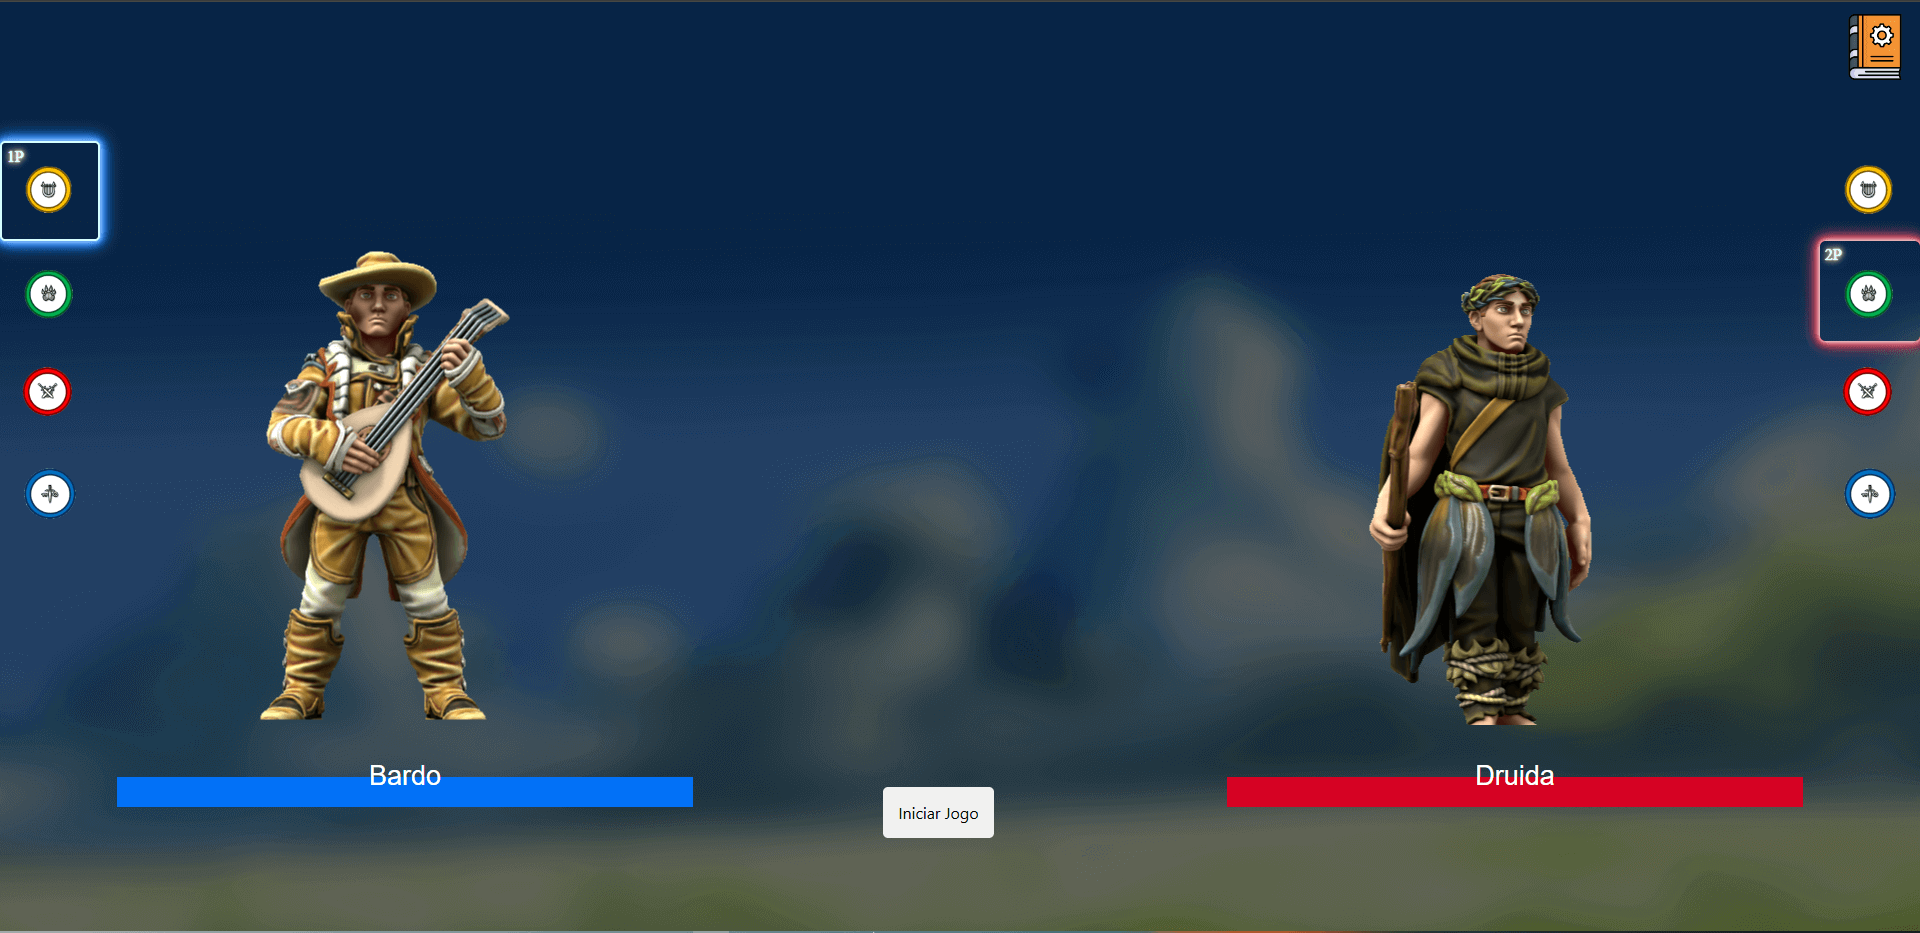
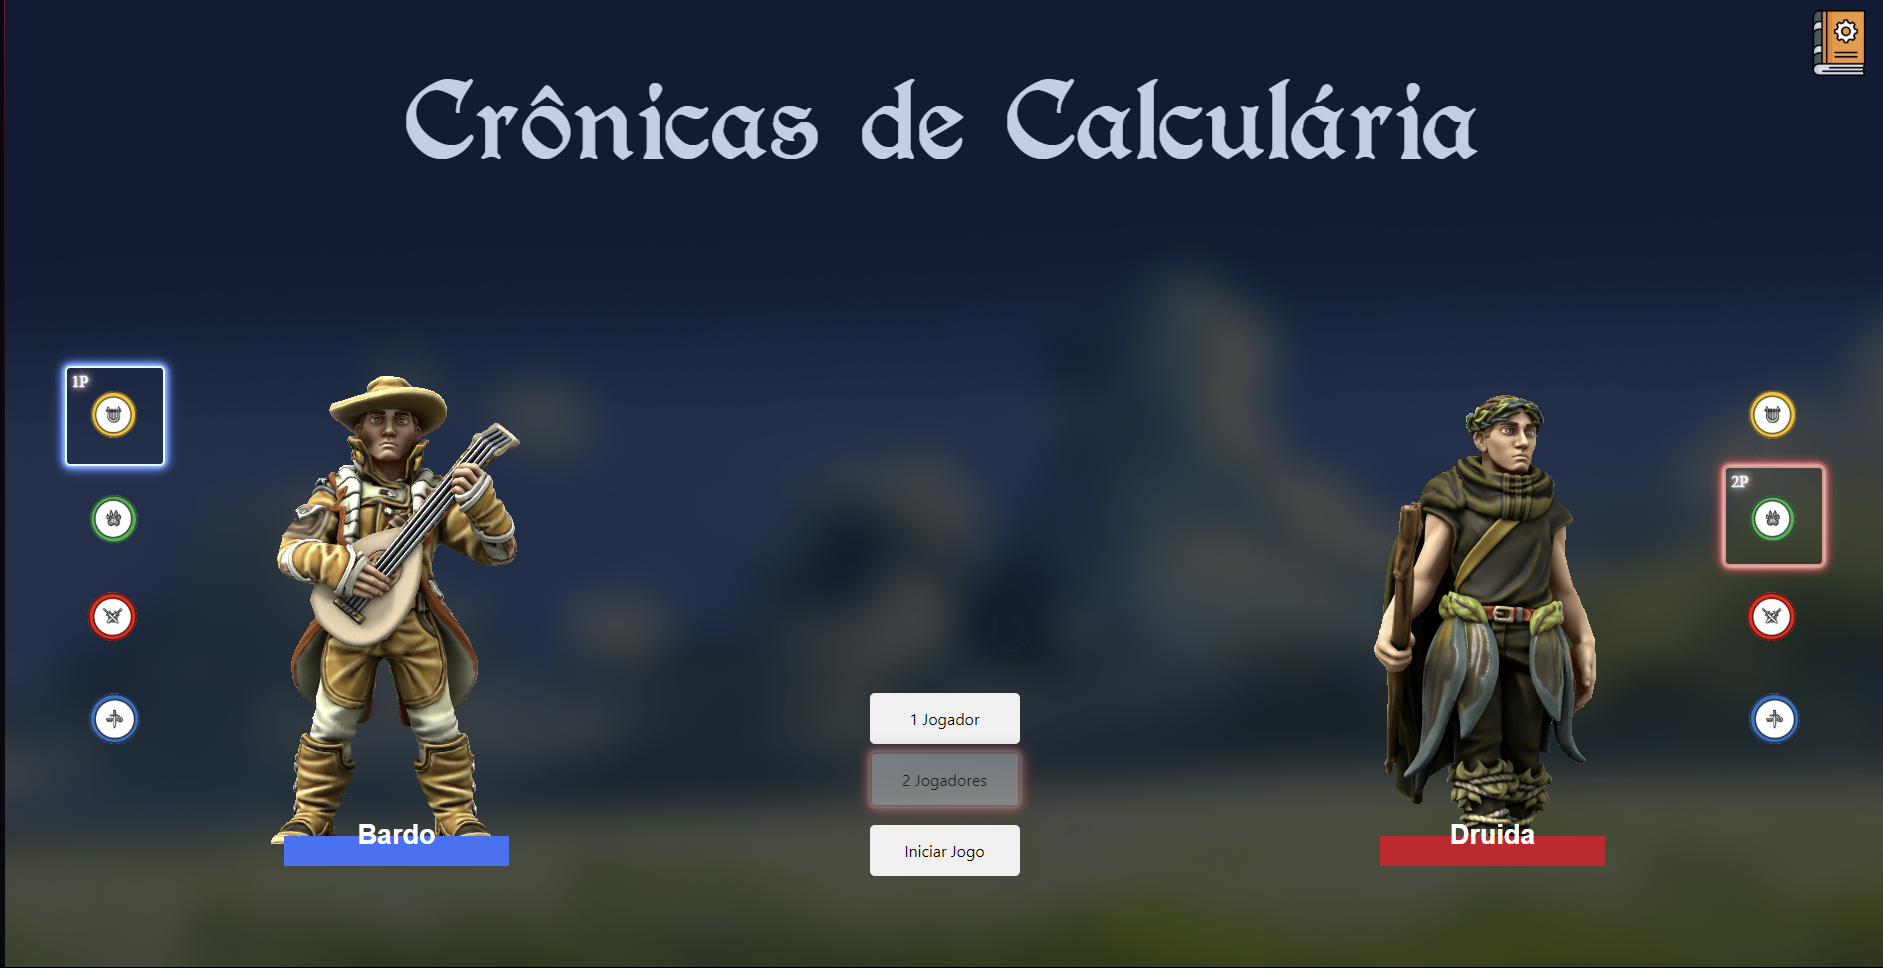
doc: adicionar imagem das telas
tela de seleção de personagens e tela com os tabuleiros

diff --git a/README.md b/README.md
@@ -16,6 +16,12 @@
 
 <img align="center" src="https://skillicons.dev/icons?i=html,sass,js,nodejs" alt="icons"/>
 
+## Tela Inicial
+
+![Tela Inicial](https://kevenshtk.github.io/cronicas-de-calcularia/public/assets/img/inicio.png)
+
+![Tela dos Tabuleiros](https://kevenshtk.github.io/cronicas-de-calcularia/public/assets/img/tabuleiro.png)
+
 
 ## Funcionalidades
 
